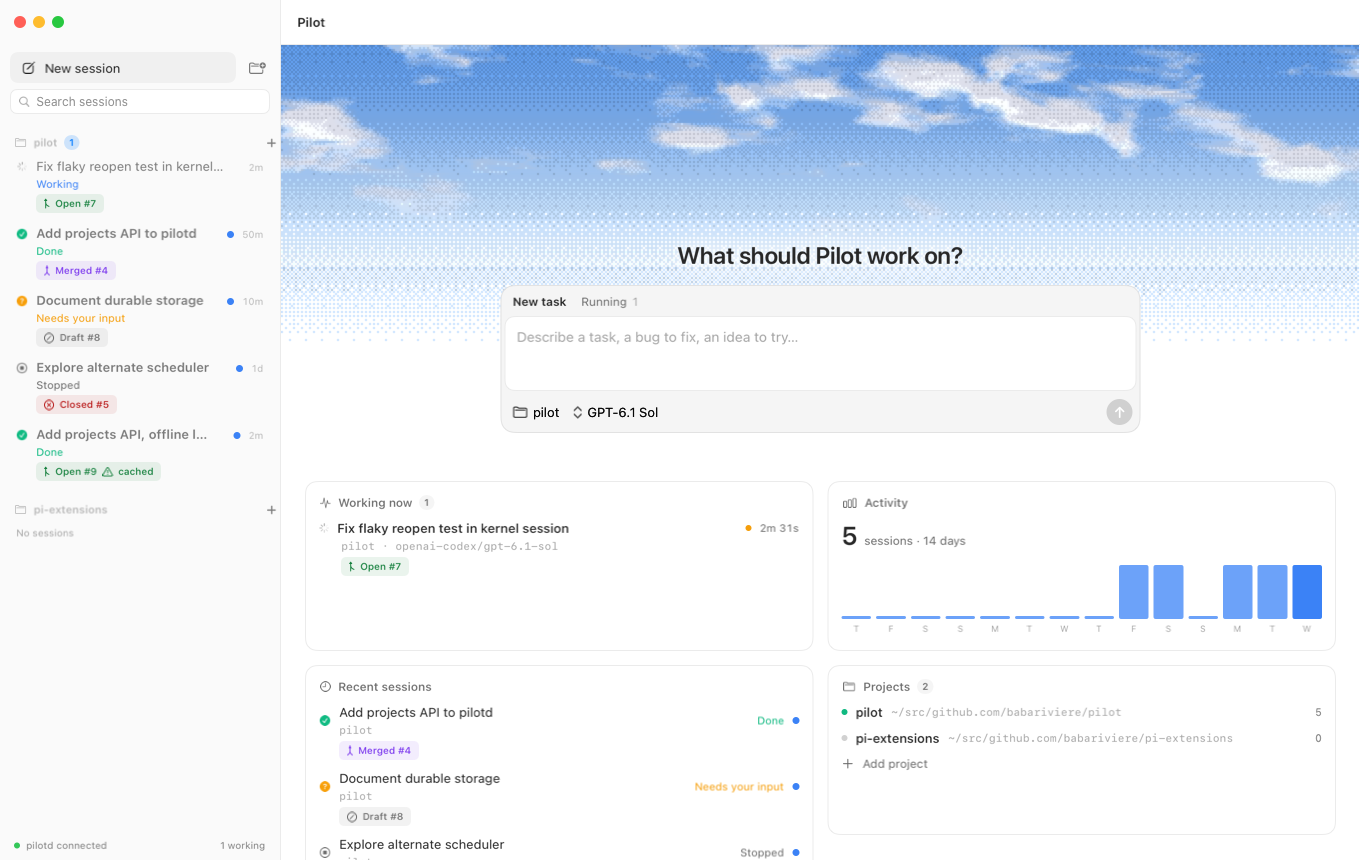
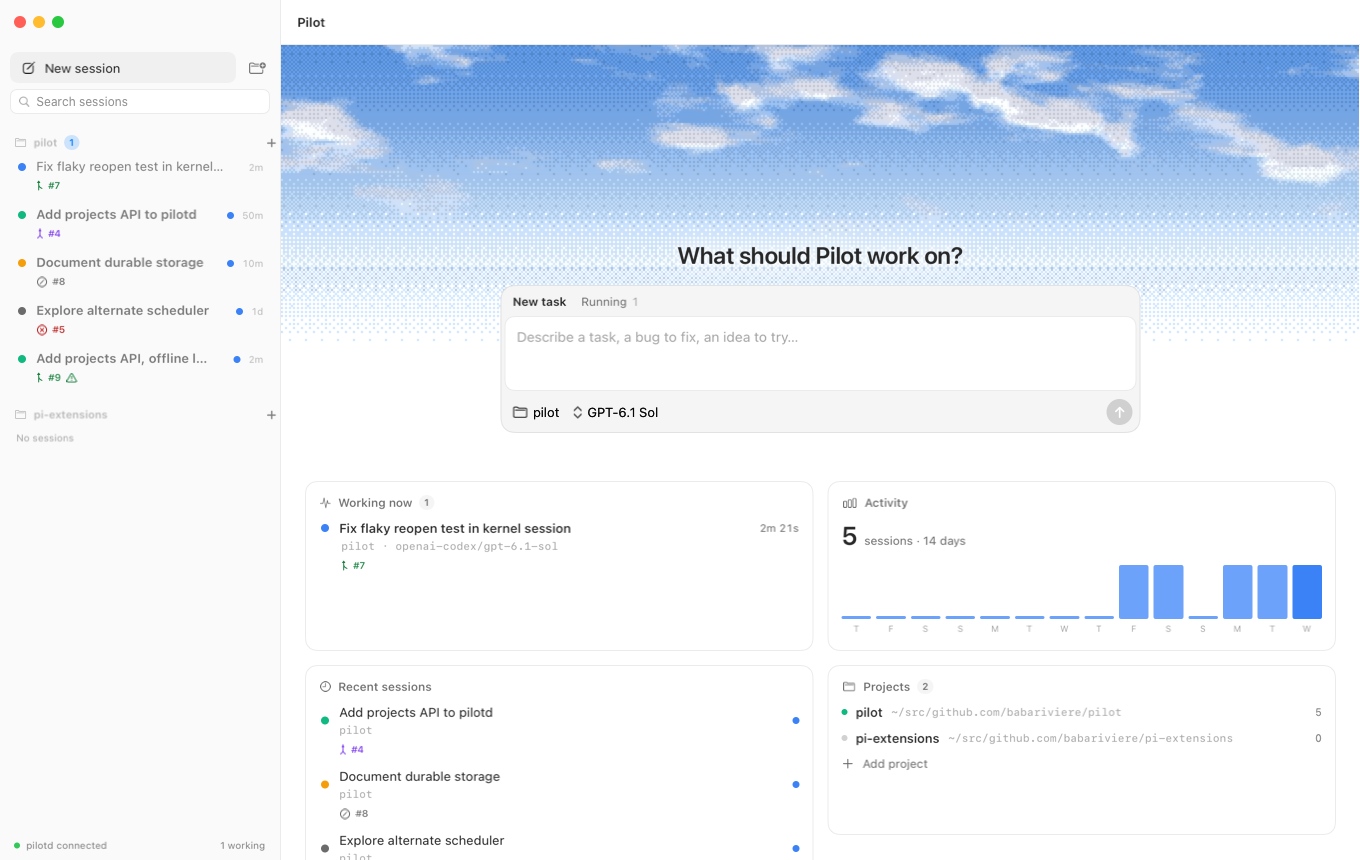
refactor(ui): simplify session and pull request indicators

diff --git a/apps/macos/Sources/Pilot/Dashboard.swift b/apps/macos/Sources/Pilot/Dashboard.swift
@@ -63,10 +63,9 @@ private struct WorkingNowCard: View {
                     Button { app.selectedSessionId = session.id } label: {
                         VStack(alignment: .leading, spacing: 3) {
                             HStack(spacing: 8) {
-                                ProgressView().controlSize(.mini)
+                                SessionStatusIcon(status: session.status).frame(width: 12)
                                 Text(session.title).font(.system(size: 13, weight: .medium)).lineLimit(1)
                                 Spacer()
-                                Circle().fill(Theme.warning).frame(width: 6, height: 6)
                                 Text(elapsed(session.updatedAt)).font(.system(size: 11).monospacedDigit())
                                     .foregroundStyle(Theme.mutedForeground)
                             }
@@ -79,7 +78,7 @@ private struct WorkingNowCard: View {
                         .contentShape(Rectangle())
                     }
                     .buttonStyle(.plain)
-                    PullRequestBadge(session: session, compact: true).padding(.leading, 22)
+                    PullRequestBadge(session: session).padding(.leading, 22)
                 }
             }
         }
@@ -155,15 +154,12 @@ private struct RecentCard: View {
                                     .lineLimit(1)
                             }
                             Spacer()
-                            Text(session.status.rawValue)
-                                .font(.system(size: 11))
-                                .foregroundStyle(session.status.color)
                             if app.isUnread(session) { UnreadBadge() }
                         }
                         .contentShape(Rectangle())
                     }
                     .buttonStyle(.plain)
-                    PullRequestBadge(session: session, compact: true).padding(.leading, 20)
+                    PullRequestBadge(session: session).padding(.leading, 20)
                 }
             }
         }

diff --git a/apps/macos/Sources/Pilot/MenuBar.swift b/apps/macos/Sources/Pilot/MenuBar.swift
@@ -13,17 +13,21 @@ struct MenuBarContent: View {
         Text(statusText)
         Divider()
         ForEach(client.sessions.prefix(8)) { session in
-            Button("\(symbol(for: session.status)) \(session.title) · \(session.status.rawValue)\(model.isUnread(session) ? " · unread" : "")") {
+            Button {
                 model.openWindowAction = { openWindow(id: MainWindow.id) }
                 model.open(session: session.id)
+            } label: {
+                Label {
+                    Text("\(session.title)\(model.isUnread(session) ? " •" : "")")
+                } icon: {
+                    Image(systemName: "circle.fill")
+                        .symbolRenderingMode(.palette)
+                        .foregroundStyle(session.status.color)
+                }
             }
-            if let pr = session.pullRequest, let url = pr.browserURL {
-                Link("    PR \(pr.label)\(session.pullRequestIsStale ? " (last known)" : "") ↗", destination: url)
-                    .help(session.pullRequestHelpText ?? "")
-            } else if session.pullRequestError != nil {
-                Text("    PR lookup unavailable")
-                    .help(session.pullRequestHelpText ?? "Pull request lookup failed")
-            }
+            .help(session.status.rawValue)
+            .accessibilityLabel("\(session.title), \(session.status.rawValue)\(model.isUnread(session) ? ", unread" : "")")
+            PullRequestBadge(session: session)
         }
         if !client.sessions.isEmpty { Divider() }
         Button("Open Pilot") {
@@ -59,14 +63,4 @@ struct MenuBarContent: View {
         }
     }
 
-    private func symbol(for status: SessionStatus) -> String {
-        switch status {
-        case .working: "●"
-        case .done: "✓"
-        case .needsInput: "?"
-        case .failed: "✕"
-        case .stopped: "■"
-        case .idle: "○"
-        }
-    }
 }

diff --git a/apps/macos/Sources/Pilot/PullRequestBadge.swift b/apps/macos/Sources/Pilot/PullRequestBadge.swift
@@ -4,7 +4,6 @@ import SwiftUI
 /// Browser link only. PR state never replaces outcome or unread indicators.
 struct PullRequestBadge: View {
     let session: SessionSummary
-    var compact = false
 
     var body: some View {
         Group {
@@ -16,9 +15,10 @@ struct PullRequestBadge: View {
                     badge(pr)
                 }
             } else if session.pullRequestError != nil {
-                Label("PR unavailable", systemImage: "exclamationmark.triangle")
+                Image(systemName: "exclamationmark.triangle")
                     .font(.system(size: 10, weight: .medium))
                     .foregroundStyle(Theme.mutedForeground)
+                    .accessibilityLabel("Pull request lookup unavailable")
             }
         }
         .help(session.pullRequestHelpText ?? "")
@@ -27,17 +27,13 @@ struct PullRequestBadge: View {
     private func badge(_ pr: SessionPullRequest) -> some View {
         HStack(spacing: 4) {
             Image(systemName: pr.state.icon)
-            Text(compact ? pr.compactLabel : pr.label)
-            if session.pullRequestIsStale {
+            Text("#\(pr.number)")
+            if session.pullRequestIsStale || pr.browserURL == nil {
                 Image(systemName: "exclamationmark.triangle")
-                Text("cached")
             }
-            if pr.browserURL == nil { Image(systemName: "exclamationmark.circle") }
         }
         .font(.system(size: 10, weight: .medium))
-        .padding(.horizontal, 7)
-        .padding(.vertical, 3)
-        .background(RoundedRectangle(cornerRadius: 5).fill(pr.state.color.opacity(0.09)))
+        .padding(.vertical, 2)
         .foregroundStyle(pr.state.color)
         .fixedSize()
         .accessibilityLabel("Pull request \(pr.number), \(session.pullRequestIsStale ? "last known " : "")\(pr.state.label)\(pr.browserURL == nil ? ", invalid link" : "")")

diff --git a/apps/macos/Sources/Pilot/Sidebar.swift b/apps/macos/Sources/Pilot/Sidebar.swift
@@ -153,10 +153,7 @@ struct SessionRow: View {
                 Text(session.title)
                     .font(.system(size: 13, weight: model.isUnread(session) ? .semibold : .regular))
                     .lineLimit(1)
-                Text(session.status.rawValue)
-                    .font(.system(size: 11))
-                    .foregroundStyle(session.status.color)
-                PullRequestBadge(session: session, compact: true)
+                PullRequestBadge(session: session)
             }
             Spacer(minLength: 4)
             if model.isUnread(session) { UnreadBadge() }
@@ -169,7 +166,8 @@ struct SessionRow: View {
         .help(session.cwd.abbreviatingHome)
         .contextMenu {
             if let pr = session.pullRequest, let url = pr.browserURL {
-                Link("Open PR \(pr.label)\(session.pullRequestIsStale ? " (last known)" : "") in Browser", destination: url)
+                Link("Open PR #\(pr.number) in Browser", destination: url)
+                    .help(session.pullRequestHelpText ?? "")
             }
             if model.isUnread(session) {
                 Button("Mark as reviewed") { model.review(session, explicit: true) }
@@ -185,21 +183,6 @@ struct SessionRow: View {
         case ..<86400: return "\(Int(seconds / 3600))h"
         case ..<604_800: return "\(Int(seconds / 86400))d"
         default: return "\(Int(seconds / 604_800))w"
-        }
-    }
-}
-
-struct SessionStatusIcon: View {
-    let status: SessionStatus
-
-    var body: some View {
-        switch status {
-        case .working:
-            ProgressView().controlSize(.mini)
-        case .failed, .needsInput, .done, .stopped:
-            Image(systemName: status.icon).foregroundStyle(status.color).font(.system(size: 11))
-        default:
-            Circle().fill(Color.secondary.opacity(0.35)).frame(width: 6, height: 6)
         }
     }
 }

diff --git a/apps/macos/Sources/Pilot/Theme.swift b/apps/macos/Sources/Pilot/Theme.swift
@@ -125,38 +125,19 @@ struct ChipLabel: View {
     }
 }
 
-/// Small status capsule for headers.
-struct StateBadge: View {
+/// Color-only agent status, with details available without adding row text.
+struct SessionStatusIcon: View {
     let status: SessionStatus
 
     var body: some View {
-        HStack(spacing: 5) {
-            if status == .working {
-                ProgressView().controlSize(.mini)
-            } else {
-                Image(systemName: status.icon).font(.system(size: 10))
-            }
-            Text(status.rawValue).font(.system(size: 11, weight: .medium))
-        }
-        .padding(.horizontal, 8)
-        .padding(.vertical, 3)
-        .background(Capsule().fill(status.color.opacity(0.1)))
-        .foregroundStyle(status.color)
+        Circle().fill(status.color).frame(width: 8, height: 8)
+            .help(status.rawValue)
+            .accessibilityElement(children: .ignore)
+            .accessibilityLabel("Agent status: \(status.rawValue)")
     }
 }
 
 extension SessionStatus {
-    var icon: String {
-        switch self {
-        case .working: "arrow.trianglehead.2.clockwise"
-        case .done: "checkmark.circle.fill"
-        case .needsInput: "questionmark.circle.fill"
-        case .failed: "exclamationmark.circle.fill"
-        case .stopped: "stop.circle"
-        case .idle: "circle"
-        }
-    }
-
     var color: Color {
         switch self {
         case .working: Theme.info

diff --git a/apps/macos/Sources/Pilot/ChatView.swift b/apps/macos/Sources/Pilot/ChatView.swift
@@ -114,7 +114,7 @@ struct ChatView: View {
                     if !session.isWorking, session.outcome != nil {
                         VStack(alignment: .leading, spacing: 8) {
                             HStack {
-                                StateBadge(status: session.status)
+                                SessionStatusIcon(status: session.status)
                                 if model.isUnread(session) { UnreadBadge() }
                             }
                             if let reason = session.outcomeReason {
@@ -279,11 +279,13 @@ private struct WorkingIndicator: View {
 
     var body: some View {
         HStack(spacing: 8) {
-            ProgressView().controlSize(.small)
-            Text(retry.map { "Retrying: \($0)" } ?? "Working…")
-                .font(.callout)
-                .foregroundStyle(.secondary)
-                .lineLimit(1)
+            SessionStatusIcon(status: .working)
+            if let retry {
+                Text("Retrying: \(retry)")
+                    .font(.callout)
+                    .foregroundStyle(.secondary)
+                    .lineLimit(1)
+            }
         }
     }
 }

diff --git a/apps/macos/Sources/Pilot/Snapshot.swift b/apps/macos/Sources/Pilot/Snapshot.swift
@@ -312,7 +312,7 @@ enum Snapshot {
                         }
                         Spacer()
                         if subtitle != nil {
-                            StateBadge(status: status)
+                            SessionStatusIcon(status: status)
                             if let session {
                                 if AppModel.shared.isUnread(session) { UnreadBadge() }
                                 PullRequestBadge(session: session)

diff --git a/apps/macos/Sources/Pilot/MainWindow.swift b/apps/macos/Sources/Pilot/MainWindow.swift
@@ -64,7 +64,7 @@ struct SessionDetail: View {
         .navigationSubtitle(subtitle)
         .toolbar {
             ToolbarItemGroup {
-                StateBadge(status: session.status)
+                SessionStatusIcon(status: session.status)
                 if model.isUnread(session) { UnreadBadge() }
                 PullRequestBadge(session: session)
                 if let branch = session.branch {

diff --git a/apps/macos/README.md b/apps/macos/README.md
@@ -35,13 +35,15 @@ Native SwiftUI client for pilotd, with a libghostty terminal per session.
   `~/.config/ghostty/config`, which can be turned off), and projects.
 - **Menu bar.** Daemon status, recent sessions, open, restart/stop pilotd, open the log. The icon is the app
   icon's plane, with its contrail while agents are working.
-- **Results.** Working, Done, Needs your input, Failed and Stopped labels are separate from lifecycle.
+- **Results.** Color-only status dots are separate from lifecycle: blue for Working, green for Done,
+  orange for Needs your input, red for Failed, and gray for Stopped/Idle. Hover for the status label;
+  screen readers announce it too.
   Unread result dots persist until the loaded outcome card is visible in an active chat, or you choose
   "Mark as reviewed" in the sidebar. Reviewing never answers a question or clears Needs your input.
 - **Pull requests.** Browser links in the sidebar, session header, dashboard, context menu and menu bar
-  show Draft, Open, Merged or Closed without merging, independently of results and unread dots.
-  Compact badges shorten the last label to Closed; hover for the full state, title and last lookup time.
-  Failed lookups retain a marked cached state, or show PR unavailable if no cached PR exists.
+  show only a colored state icon and PR number, independently of results and unread dots.
+  Hover for Draft, Open, Merged or Closed without merging, the title and last lookup time.
+  Failed lookups retain a warning-marked cached icon, or show a warning icon if no cached PR exists.
   Links accept HTTP(S), including GitHub Enterprise hosts, and never merge or close a PR.
 - **Notifications.** New completion versions (bundled app only), deduplicated across reconnects.
 

diff --git a/PLAN.md b/PLAN.md
@@ -226,12 +226,14 @@ reports), producing a morning summary in the app and Slack.
 ## 7. App (macOS)
 
 - Sidebar grouped by origin and state; badges for `waiting` sessions (they need you).
-- Manual sessions show Working, Done, Needs your input, Failed or Stopped separately from worker
-  lifecycle. Unread completion badges persist until reviewed, independently of the outcome:
+- Manual sessions show color-only status dots, with Working, Done, Needs your input, Failed or Stopped
+  in tooltips and accessibility labels, separately from worker lifecycle. Unread completion dots persist
+  until reviewed, independently of the outcome:
   reading a question does not answer it. Native macOS notifications distinguish results, blocking
   requests and failures, and deduplicate completion versions across reconnects.
-- Private-branch sessions show a linked GitHub PR badge independently of run outcome: Draft, Open,
-  Merged, or Closed without merging. The daemon discovers PRs by the exact workspace branch and
+- Private-branch sessions show a linked colored PR icon and number independently of run outcome;
+  tooltips and accessibility labels distinguish Draft, Open, Merged or Closed without merging.
+  The daemon discovers PRs by the exact workspace branch and
   repository, checks GitHub at startup, after settled work and about once a minute while idle,
   and persists the last successful status. Failed lookups retain the cache but label it as last
   known, never as a fresh merge result. Direct/shared-folder sessions are not auto-linked.
